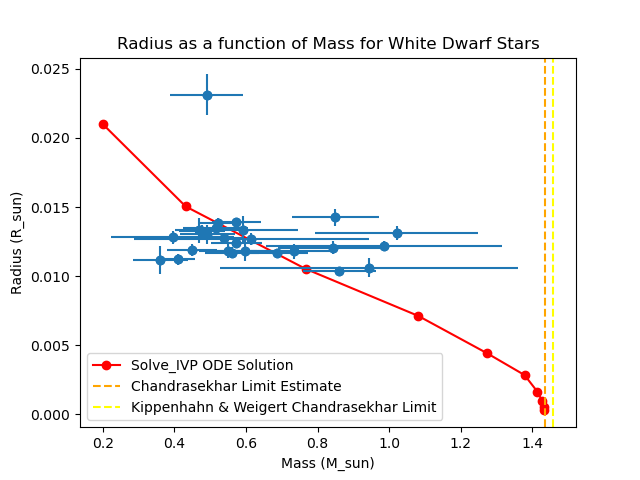
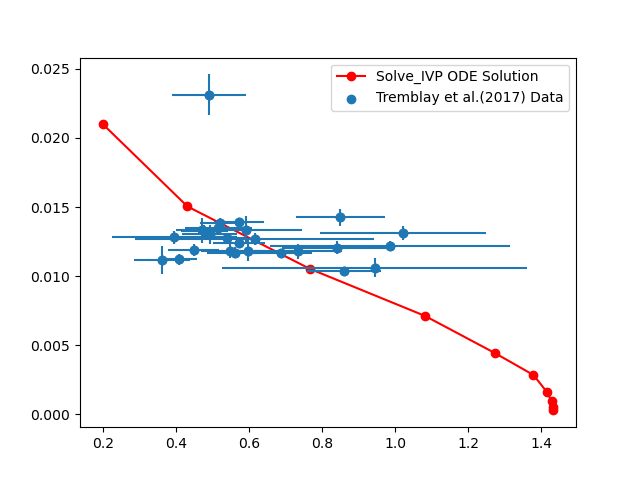
Final commit
Commenting, docstrings, printing relevant information for the project report

diff --git a/HembruffAidan_Project3.py b/HembruffAidan_Project3.py
@@ -14,10 +14,23 @@ from scipy.optimize import curve_fit
 import matplotlib.pyplot as plt
 from pandas import read_csv
 
-# Part 1
-
 # function to pass to solve_ivp
 def ODE(r, ystate):
+    '''
+    A function describes the relationship between a state vector
+    for the white dwarf and its derivative. Passed to Solve_IVP
+
+    Parameters
+    ----------
+    r : The radius of the white dwarf 
+    
+    ystate : The state vector, which is the initial (central) mass and density
+
+    Returns
+    -------
+    dystate : The derivative of the state vector
+
+    '''
     rho = ystate[0]  # dimensionless density
     m = ystate[1]    # dimensionless mass
     
@@ -32,14 +45,31 @@ def ODE(r, ystate):
     return dystate
 
 # event function to find when mass and density are zero
-def event(r,ystate):
+def rho_zero_event(r,ystate):
+    """
+    A function which has the sole purpose of being used in the events
+    option of Solve_IVP. Determines when the density at radius r is 0
+
+    Parameters
+    ----------
+    r : The radius of the white dwarf
+    
+    ystate : The white dwarf state vector
+
+    Returns
+    -------
+    TYPE
+        DESCRIPTION.
+
+    """
     if ystate[0] - 1e-5 < 0:
         ystate[0] = 0
     return ystate[0] 
 
 # stop integration when rho equals 0
-event.terminal = True
-event.direction= -1
+rho_zero_event.terminal = True
+# ensuring the direction is from above the x-axis when termination is reached
+rho_zero_event.direction= -1
 
 # initializing the range of rho_c values and the outer limit of r for which rho = 0
 rho_c = np.logspace(-1,6.3,10)
@@ -55,7 +85,7 @@ M_0 = (5.67e33)/(mu_e**2)
 R_sun = 6.96e10
 M_sun = 1.99e33
 
-# empty lists to store percent difference between variables found using different integration methods
+# Initialize empty lists to store parameters of interest
 R_diff_list = []
 M_diff_list = []
 Rho_diff_list = []
@@ -76,55 +106,86 @@ for i in range(len(rho_c)):
     r_eval = np.linspace(1e-6,10,200)
     boundary_conds = [rho_c[i],0] # boundary conditions for each instance of rho_c
     # solve_ivp using RK45 method
-    soln = solve_ivp(ODE,(1e-6,10),boundary_conds,method="RK45",t_eval = r_eval, events = event) 
+    soln = solve_ivp(ODE,(1e-6,10),boundary_conds,method="RK45",t_eval = r_eval, events =rho_zero_event) 
     
+    # use a second integration method for three values of rho_c, for comparison of methods
     if i == 0 or i == 5 or i == 9:
-
-        new_soln = solve_ivp(ODE,(1e-6,10),boundary_conds,method="DOP853",t_eval = r_eval, events = event)
         
-        r1 = soln.t_events[0]
+        # solution using the DOP853 method
+        new_soln = solve_ivp(ODE,(1e-6,10),boundary_conds,method="DOP853",t_eval = r_eval, events = rho_zero_event)
+        
+        # RK45 results
+        r1 = soln.t_events[0][0]
         m1 = soln.y_events[0][0][1]
-        rho1 = soln.y_events[0][0][0]
         
         R1_list.append(r1)
         M1_list.append(m1)
-        Rho1_list.append(rho1)
         
-        r2 = new_soln.t_events[0]
+        # DOP853 results
+        r2 = new_soln.t_events[0][0]
         m2 = new_soln.y_events[0][0][1]
-        rho2 = new_soln.y_events[0][0][0]
         
         R2_list.append(r2)
         M2_list.append(m2)
-        Rho2_list.append(rho2)
         
+        # finding the percent difference between values from each method
         r_diff = (np.abs(r2-r1)/((r2+r1)/2))*100
         m_diff = (np.abs(m2-m1)/((m2+m1)/2))*100
-        rho_diff = (np.abs(rho2-rho1)/((rho2+rho1)/2))*100
         
         R_diff_list.append(r_diff)
         M_diff_list.append(m_diff)
-        Rho_diff_list.append(rho_diff)
         
     dimensional_r.append(soln.t_events[0][0]*R_0/R_sun)
     dimensional_m.append(soln.y_events[0][0][1]*M_0/M_sun)
 
-m_vals = np.asarray(dimensional_m[7:10])
-r_vals = np.asarray(dimensional_r[7:10])
+# printing relevant information for the report
+print("The radius values using the RK45 method are: " + str(R1_list))
+print("\nThe radius values using the DOP853 method are: " + str(R2_list))
+print("\nThe mass values using the RK45 method are: " + str(M1_list))
+print("\nThe mass values using the DOP853 method are: " + str(M2_list))
+
+print("\nThe percent difference in radius values between the two integration methods is: " + str(R_diff_list))
+print("\nThe percent difference in mass values between the two integration methods is: " + str(M_diff_list))
+
 
 def linear(x,m,b):
+    """
+    Function of a line to be passed to curve_fit
+
+    Parameters
+    ----------
+    x : The x values
+    
+    m : The slope of the line
+
+    b : The y_intercept of the line
+
+    Returns
+    -------
+    y : The equation of the line
+
+    """
     y = m*x + b
     return y
 
+# radius and mass values for the last three rho_c values
+m_vals = np.asarray(dimensional_m[7:10])
+r_vals = np.asarray(dimensional_r[7:10])
+
+# linear fit for the last three points to allow for an estimate of the 
+# Chandrasekhar limit when the radius reaches 0 for the mass-radius relationship curve
 curve =  curve_fit(linear,m_vals,r_vals)
+# the estimate is the y-intercept divided by the slope since y=0 at the intersection with the x-axis
 Chandrasekhar_estimate = -curve[0][1]/curve[0][0]
 
 
+print("\nThe estimation of the Chandrasekhar limit from the plot is: %f"%Chandrasekhar_estimate)
+# Finding the difference between our estimate of the Chandrasekhar limit and the Weigert-Kippenhan estimate
 limit_diff = (np.abs(Chandrasekhar_estimate - (5.836/4))/((Chandrasekhar_estimate+(5.836/4))/2))*100
-print("The percent difference between the estimated Chandrasekhar limit and Kippenhand & Weigert's" +
+print("\nThe percent difference between the estimated Chandrasekhar limit and Kippenhand & Weigert's" +
       "estimation is : %f percent" %limit_diff)
 
-# plotting
+# plotting the ODE solution and Chandrasekhar limit estimations
 fig1 = plt.figure()
 plt.plot(dimensional_m,dimensional_r, color = "red",label = "Solve_IVP ODE Solution",marker ='o')
 plt.axvline(Chandrasekhar_estimate,color='orange',label="Chandrasekhar Limit Estimate", linestyle = "dashed")
@@ -134,6 +195,7 @@ plt.xlabel("Mass (M_sun)")
 plt.ylabel("Radius (R_sun)")
 plt.legend()
 plt.savefig("HembruffAidan_Project3_Fig1.png")
+plt.close()
     
 
 # %%
@@ -146,9 +208,14 @@ mass_unc = data["M_unc"]
 radius_data = data["R_Rsun"]
 radius_unc = data["R_unc"]
 
+# replot ODE solution to plot with observational data
+fig2 = plt.figure()
+plt.plot(dimensional_m,dimensional_r, color = "red",label = "Solve_IVP ODE Solution",marker ='o')
 # plotting observational data
 plt.scatter(mass_data,radius_data, label = "Tremblay et al.(2017) Data")
 plt.errorbar(mass_data,radius_data,xerr=mass_unc,yerr=radius_unc,fmt='o')
 plt.legend()
-plt.savefig("HembruffAidan_Project3_Fig2")
-plt.show()
+plt.savefig("HembruffAidan_Project3_Fig2.png")
+plt.close()
+
+# END
